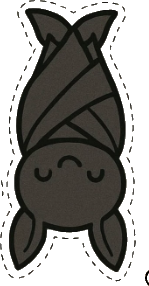
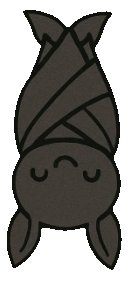
Polish: spring reveal animation, drop shadows, bubble fade+tail, menu checkmarks, cleaner art and README cards

diff --git a/swift/BuddyApp.swift b/swift/BuddyApp.swift
@@ -85,6 +85,7 @@ final class BuddyView: NSView {
     var notifyUntil: Double = 0
     var phase: CGFloat = 0
     var revealProgress: CGFloat = 0
+    var revealVelocity: CGFloat = 0
     var scale: CGFloat = 1.0
     var tilt: CGFloat = 0
 
@@ -118,6 +119,10 @@ final class BuddyView: NSView {
     override func mouseEntered(with event: NSEvent) { hovered = true }
     override func mouseExited(with event: NSEvent) { hovered = false }
 
+    override func resetCursorRects() {
+        addCursorRect(bounds, cursor: .pointingHand)
+    }
+
     override func mouseDown(with event: NSEvent) {
         dragging = false
         dragStartMouse = NSEvent.mouseLocation
@@ -140,6 +145,7 @@ final class BuddyView: NSView {
             runScript(awake ? "\(binDir)/killawake" : "\(binDir)/stayawake")
             awake.toggle()
             needsDisplay = true
+            (NSApp.delegate as? AppDelegate)?.updateStatusIcon()
         }
         dragging = false
     }
@@ -157,9 +163,18 @@ final class BuddyView: NSView {
     func compositeHeight() -> CGFloat { baseHeight * scale }
     func compositeWidth() -> CGFloat { baseWidth * scale }
 
+    func batShadow() -> NSShadow {
+        let s = NSShadow()
+        s.shadowBlurRadius = 6
+        s.shadowOffset = NSSize(width: 0, height: -3)
+        s.shadowColor = NSColor.black.withAlphaComponent(0.35)
+        return s
+    }
+
     override func draw(_ dirtyRect: NSRect) {
         NSColor.clear.set()
         dirtyRect.fill()
+        NSGraphicsContext.current?.imageInterpolation = .high
 
         let ctx = NSGraphicsContext.current?.cgContext
         ctx?.saveGState()
@@ -184,8 +199,11 @@ final class BuddyView: NSView {
 
         // branch: fixed, never bobs, never changes with awake/asleep
         if let branch = branchImage {
+            ctx?.saveGState()
+            batShadow().set()
             let r = NSRect(x: -w / 2, y: bodyH / 2, width: w, height: branchH)
             branch.draw(in: r, from: .zero, operation: .sourceOver, fraction: 1.0)
+            ctx?.restoreGState()
         }
 
         // body: swaps art, subtle bob only (ears wiggle independently, see below)
@@ -198,7 +216,10 @@ final class BuddyView: NSView {
             let aspect = body.size.width / body.size.height
             let bw = bodyH * aspect
             bodyRect = NSRect(x: -bw / 2, y: -bodyH / 2, width: bw, height: bodyH)
+            ctx?.saveGState()
+            batShadow().set()
             body.draw(in: bodyRect, from: .zero, operation: .sourceOver, fraction: 1.0)
+            ctx?.restoreGState()
 
             if awake {
                 drawBlink(in: bodyRect)
@@ -234,9 +255,10 @@ final class BuddyView: NSView {
         ctx?.restoreGState()
 
         if !awake && revealProgress > 0.4 {
+            let zAlpha = max(0, min(1, revealProgress))
             let zAttrs: [NSAttributedString.Key: Any] = [
                 .font: NSFont.boldSystemFont(ofSize: 12),
-                .foregroundColor: NSColor(calibratedRed: 0.6, green: 0.64, blue: 0.7, alpha: 1.0),
+                .foregroundColor: NSColor(calibratedRed: 0.6, green: 0.64, blue: 0.7, alpha: zAlpha),
             ]
             let drift = CGFloat((sin(phase) + 1) / 2) * 8
             ("z Z z" as NSString).draw(at: NSPoint(x: bodyRect.maxX - 10, y: bodyRect.maxY - 10 + drift), withAttributes: zAttrs)
@@ -267,12 +289,18 @@ final class BuddyView: NSView {
     }
 
     func drawBubble(_ msg: String) {
+        // fade out over the last ~0.9s of the 8s display window, and track reveal
+        let nowMs = Date().timeIntervalSince1970 * 1000
+        let remaining = (messageTime + 8000) - nowMs
+        let alpha = max(0, min(1, remaining / 900)) * max(0, min(1, revealProgress))
+        guard alpha > 0.01 else { return }
+
         let bubbleW: CGFloat = bounds.width * 0.92
         let style = NSMutableParagraphStyle()
         style.alignment = .center
         let attrs: [NSAttributedString.Key: Any] = [
-            .font: NSFont.systemFont(ofSize: 11),
-            .foregroundColor: NSColor.white,
+            .font: NSFont.systemFont(ofSize: 11, weight: .medium),
+            .foregroundColor: NSColor.white.withAlphaComponent(alpha),
             .paragraphStyle: style,
         ]
         let textW = bubbleW - 16
@@ -283,8 +311,13 @@ final class BuddyView: NSView {
         let bubbleH = min(90, max(28, bounding.height + 14))
         let bubbleRect = NSRect(x: (bounds.width - bubbleW) / 2, y: 2, width: bubbleW, height: bubbleH)
 
-        let path = NSBezierPath(roundedRect: bubbleRect, xRadius: 8, yRadius: 8)
-        NSColor(calibratedWhite: 0.12, alpha: 0.92).setFill()
+        let path = NSBezierPath(roundedRect: bubbleRect, xRadius: 10, yRadius: 10)
+        // little tail pointing up toward the bat
+        path.move(to: NSPoint(x: bubbleRect.midX - 7, y: bubbleRect.maxY))
+        path.line(to: NSPoint(x: bubbleRect.midX, y: bubbleRect.maxY + 7))
+        path.line(to: NSPoint(x: bubbleRect.midX + 7, y: bubbleRect.maxY))
+        path.close()
+        NSColor(calibratedWhite: 0.1, alpha: 0.93 * alpha).setFill()
         path.fill()
         (msg as NSString).draw(in: bubbleRect.insetBy(dx: 8, dy: 7), withAttributes: attrs)
     }
@@ -292,6 +325,11 @@ final class BuddyView: NSView {
 
 func buildBuddyMenu() -> NSMenu {
     let menu = NSMenu()
+    let awake = (NSApp.delegate as? AppDelegate)?.panel.buddyView.awake ?? false
+    let toggleItem = NSMenuItem(title: "Keep Mac Awake", action: #selector(AppDelegate.toggleAwake), keyEquivalent: "")
+    toggleItem.state = awake ? .on : .off
+    menu.addItem(toggleItem)
+    menu.addItem(NSMenuItem.separator())
     menu.addItem(withTitle: "Hide Wigbat", action: #selector(AppDelegate.hideBuddy), keyEquivalent: "")
     menu.addItem(NSMenuItem.separator())
     menu.addItem(withTitle: "Bigger", action: #selector(AppDelegate.biggerBuddy), keyEquivalent: "")
@@ -369,7 +407,8 @@ final class BuddyPanel: NSPanel {
     }
 
     func applyScale(_ delta: CGFloat) {
-        prefs.scale = max(0.5, min(2.0, prefs.scale + delta))
+        // capped at 1.5 so the art never clips the fixed hover window
+        prefs.scale = max(0.5, min(1.5, prefs.scale + delta))
         prefs.save()
         buddyView.scale = prefs.scale
         buddyView.needsDisplay = true
@@ -392,28 +431,41 @@ final class AppDelegate: NSObject, NSApplicationDelegate {
     var pollTimer: Timer!
     var menuIconAwake: NSImage?
     var menuIconAsleep: NSImage?
+    var statusToggleItem: NSMenuItem?
     var lastSeenMessageTime: Double = 0
+    var pollTick = 0
 
     func applicationDidFinishLaunching(_ notification: Notification) {
         NSApp.setActivationPolicy(.accessory)
         panel = BuddyPanel()
         setupStatusItem()
 
-        renderTimer = Timer.scheduledTimer(withTimeInterval: 1.0 / 30.0, repeats: true) { [weak self] _ in
+        renderTimer = Timer.scheduledTimer(withTimeInterval: 1.0 / 60.0, repeats: true) { [weak self] _ in
             guard let self = self else { return }
             let v = self.panel.buddyView
-            v.phase += 0.06
             let nowMs = Date().timeIntervalSince1970 * 1000
             let target: CGFloat = (v.hovered || nowMs < v.notifyUntil) ? 1.0 : 0.0
-            v.revealProgress += (target - v.revealProgress) * 0.25
-            if abs(v.revealProgress - target) < 0.01 { v.revealProgress = target }
+
+            // fully tucked away and idle — skip redraws entirely (zero CPU)
+            if target == 0 && v.revealProgress == 0 && v.revealVelocity == 0 { return }
+
+            v.phase += 0.03
+            // slightly underdamped spring: settles fast with a small playful bounce
+            v.revealVelocity = v.revealVelocity * 0.74 + (target - v.revealProgress) * 0.16
+            v.revealProgress += v.revealVelocity
+            v.revealProgress = min(1.12, max(-0.02, v.revealProgress))
+            if abs(v.revealProgress - target) < 0.001 && abs(v.revealVelocity) < 0.001 {
+                v.revealProgress = target
+                v.revealVelocity = 0
+            }
             v.needsDisplay = true
         }
 
         pollTimer = Timer.scheduledTimer(withTimeInterval: 1.0, repeats: true) { [weak self] _ in
             guard let self = self else { return }
+            self.pollTick += 1
             var s = readState()
-            if s.awake && !anyClaudeSessionRunning() {
+            if s.awake && self.pollTick % 3 == 0 && !anyClaudeSessionRunning() {
                 // a session was likely force-killed and SessionEnd never fired —
                 // self-heal instead of staying awake forever.
                 runScript("\(binDir)/killawake")
@@ -442,8 +494,9 @@ final class AppDelegate: NSObject, NSApplicationDelegate {
         statusItem.button?.imagePosition = .imageOnly
 
         let menu = NSMenu()
-        let toggleItem = NSMenuItem(title: "Keep Awake (Wigbat Active)", action: #selector(toggleAwake), keyEquivalent: "")
+        let toggleItem = NSMenuItem(title: "Keep Mac Awake", action: #selector(toggleAwake), keyEquivalent: "")
         toggleItem.target = self
+        statusToggleItem = toggleItem
         menu.addItem(toggleItem)
         menu.addItem(NSMenuItem.separator())
         let showHideItem = NSMenuItem(title: "Show/Hide Buddy", action: #selector(toggleShowHide), keyEquivalent: "")
@@ -461,12 +514,15 @@ final class AppDelegate: NSObject, NSApplicationDelegate {
 
     func updateStatusIcon() {
         statusItem.button?.image = panel.buddyView.awake ? menuIconAwake : menuIconAsleep
+        statusToggleItem?.state = panel.buddyView.awake ? .on : .off
     }
 
     @objc func toggleAwake() {
         let awake = panel.buddyView.awake
         runScript(awake ? "\(binDir)/killawake" : "\(binDir)/stayawake")
         panel.buddyView.awake.toggle()
+        panel.buddyView.needsDisplay = true
+        updateStatusIcon()
     }
 
     @objc func toggleShowHide() {